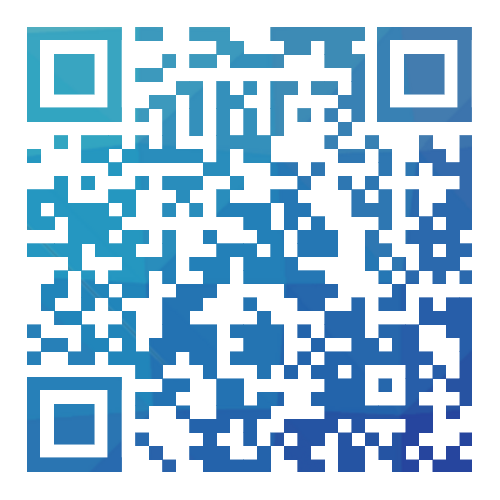
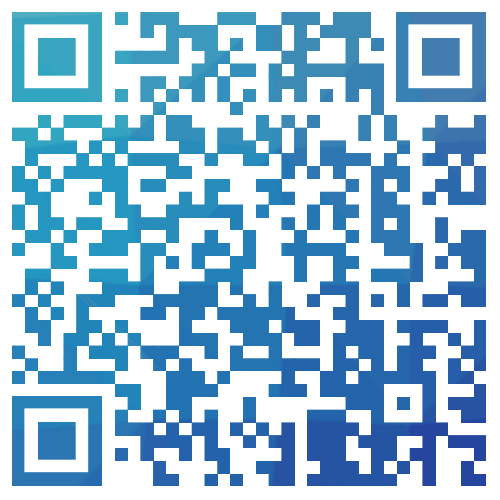
fix(credits): update shop address and QR code

diff --git a/frontend/src/components/RechargePanel.jsx b/frontend/src/components/RechargePanel.jsx
@@ -41,7 +41,7 @@ export default function RechargePanel({open,onClose,session,account,authHeaders,
         <section className="rounded-lg border border-border-subtle bg-bg-tertiary p-4" aria-label="积分套餐"><h3 className="text-sm font-semibold text-text-primary">选择适合你的创作额度</h3><p className="mt-3 text-sm leading-6 text-text-secondary">在店铺选购套餐并领取本站积分兑换码，登录后兑换到账。购买与售后请通过店铺订单处理。</p><div className="mt-3 grid grid-cols-2 gap-2 sm:grid-cols-3">{CREDIT_PACKAGES.map(p=><div key={p.id} className="rounded-md border border-border-subtle bg-bg-primary px-3 py-3"><strong className="text-accent">{p.credits} 积分</strong><p className="mt-1 text-sm text-text-secondary">¥{p.price}</p></div>)}</div><p className="mt-3 text-xs leading-5 text-text-muted">各模型扣分不同，请在生成前查看预估。</p></section>
         <div className="flex items-center justify-between gap-4 rounded-lg border border-border-subtle bg-bg-tertiary p-4" aria-label="积分店铺入口">
           <div className="min-w-0 flex-1">{config?.purchase_available&&config.purchase_url?<a href={config.purchase_url} target="_blank" rel="noopener noreferrer" referrerPolicy="no-referrer" className="inline-flex min-h-11 items-center justify-center gap-2 rounded-md border border-accent/40 bg-accent/10 px-3 py-2 text-sm text-accent hover:bg-accent/20">前往店铺选购<ArrowUpRight size={15} className="shrink-0"/></a>:<span className="text-sm text-text-muted">正在加载购买入口…</span>}<p className="mt-2 text-xs leading-5 text-text-muted">也可以用手机扫描旁边的二维码。</p></div>
-          <img src="/liandong-shop-qr.png?v=shop-20261112" alt="链动小铺二维码" className="w-32 shrink-0 rounded-md border border-border-subtle bg-white object-contain sm:w-36"/>
+          <img src="/liandong-shop-qr.png?v=67186b69cae1" alt="链动小铺二维码" className="w-32 shrink-0 rounded-md border border-border-subtle bg-white object-contain sm:w-36"/>
         </div>
         <section className="rounded-lg border border-accent/30 bg-accent/5 p-4"><h3 className="flex items-center gap-2 font-semibold text-text-primary"><Ticket size={18} className="text-accent"/>已有兑换码</h3><p className="mt-2 text-xs leading-5 text-text-muted">如已获得本站积分兑换码，可在此登录兑换。请使用店铺发放的本站积分兑换码。</p>
           <form onSubmit={redeem} className="mt-3 space-y-3"><label className="block text-sm text-text-secondary">积分兑换码<input className={input+' mt-2 font-mono'} aria-label="积分兑换码" value={code} onChange={e=>setCode(e.target.value)} maxLength={160} autoComplete="off" spellCheck={false} placeholder="粘贴 PF 开头的兑换码" disabled={busy}/></label>

diff --git a/backend/credit_codes.py b/backend/credit_codes.py
@@ -22,7 +22,7 @@ PACKAGES = [
     {'id':'pf200','credits':200,'price_fen':8000,'name':'80元200积分'},
     {'id':'pf260','credits':260,'price_fen':10000,'name':'100元260积分'},
 ]
-PURCHASE_URL = 'https://wzyp.cn/shop/YG4BMC3P'
+PURCHASE_URL = 'https://wzyp.cn/shop/posterflow-ai'
 CODE = re.compile(r'^PF[A-Z2-7]{26}$')
 
 
